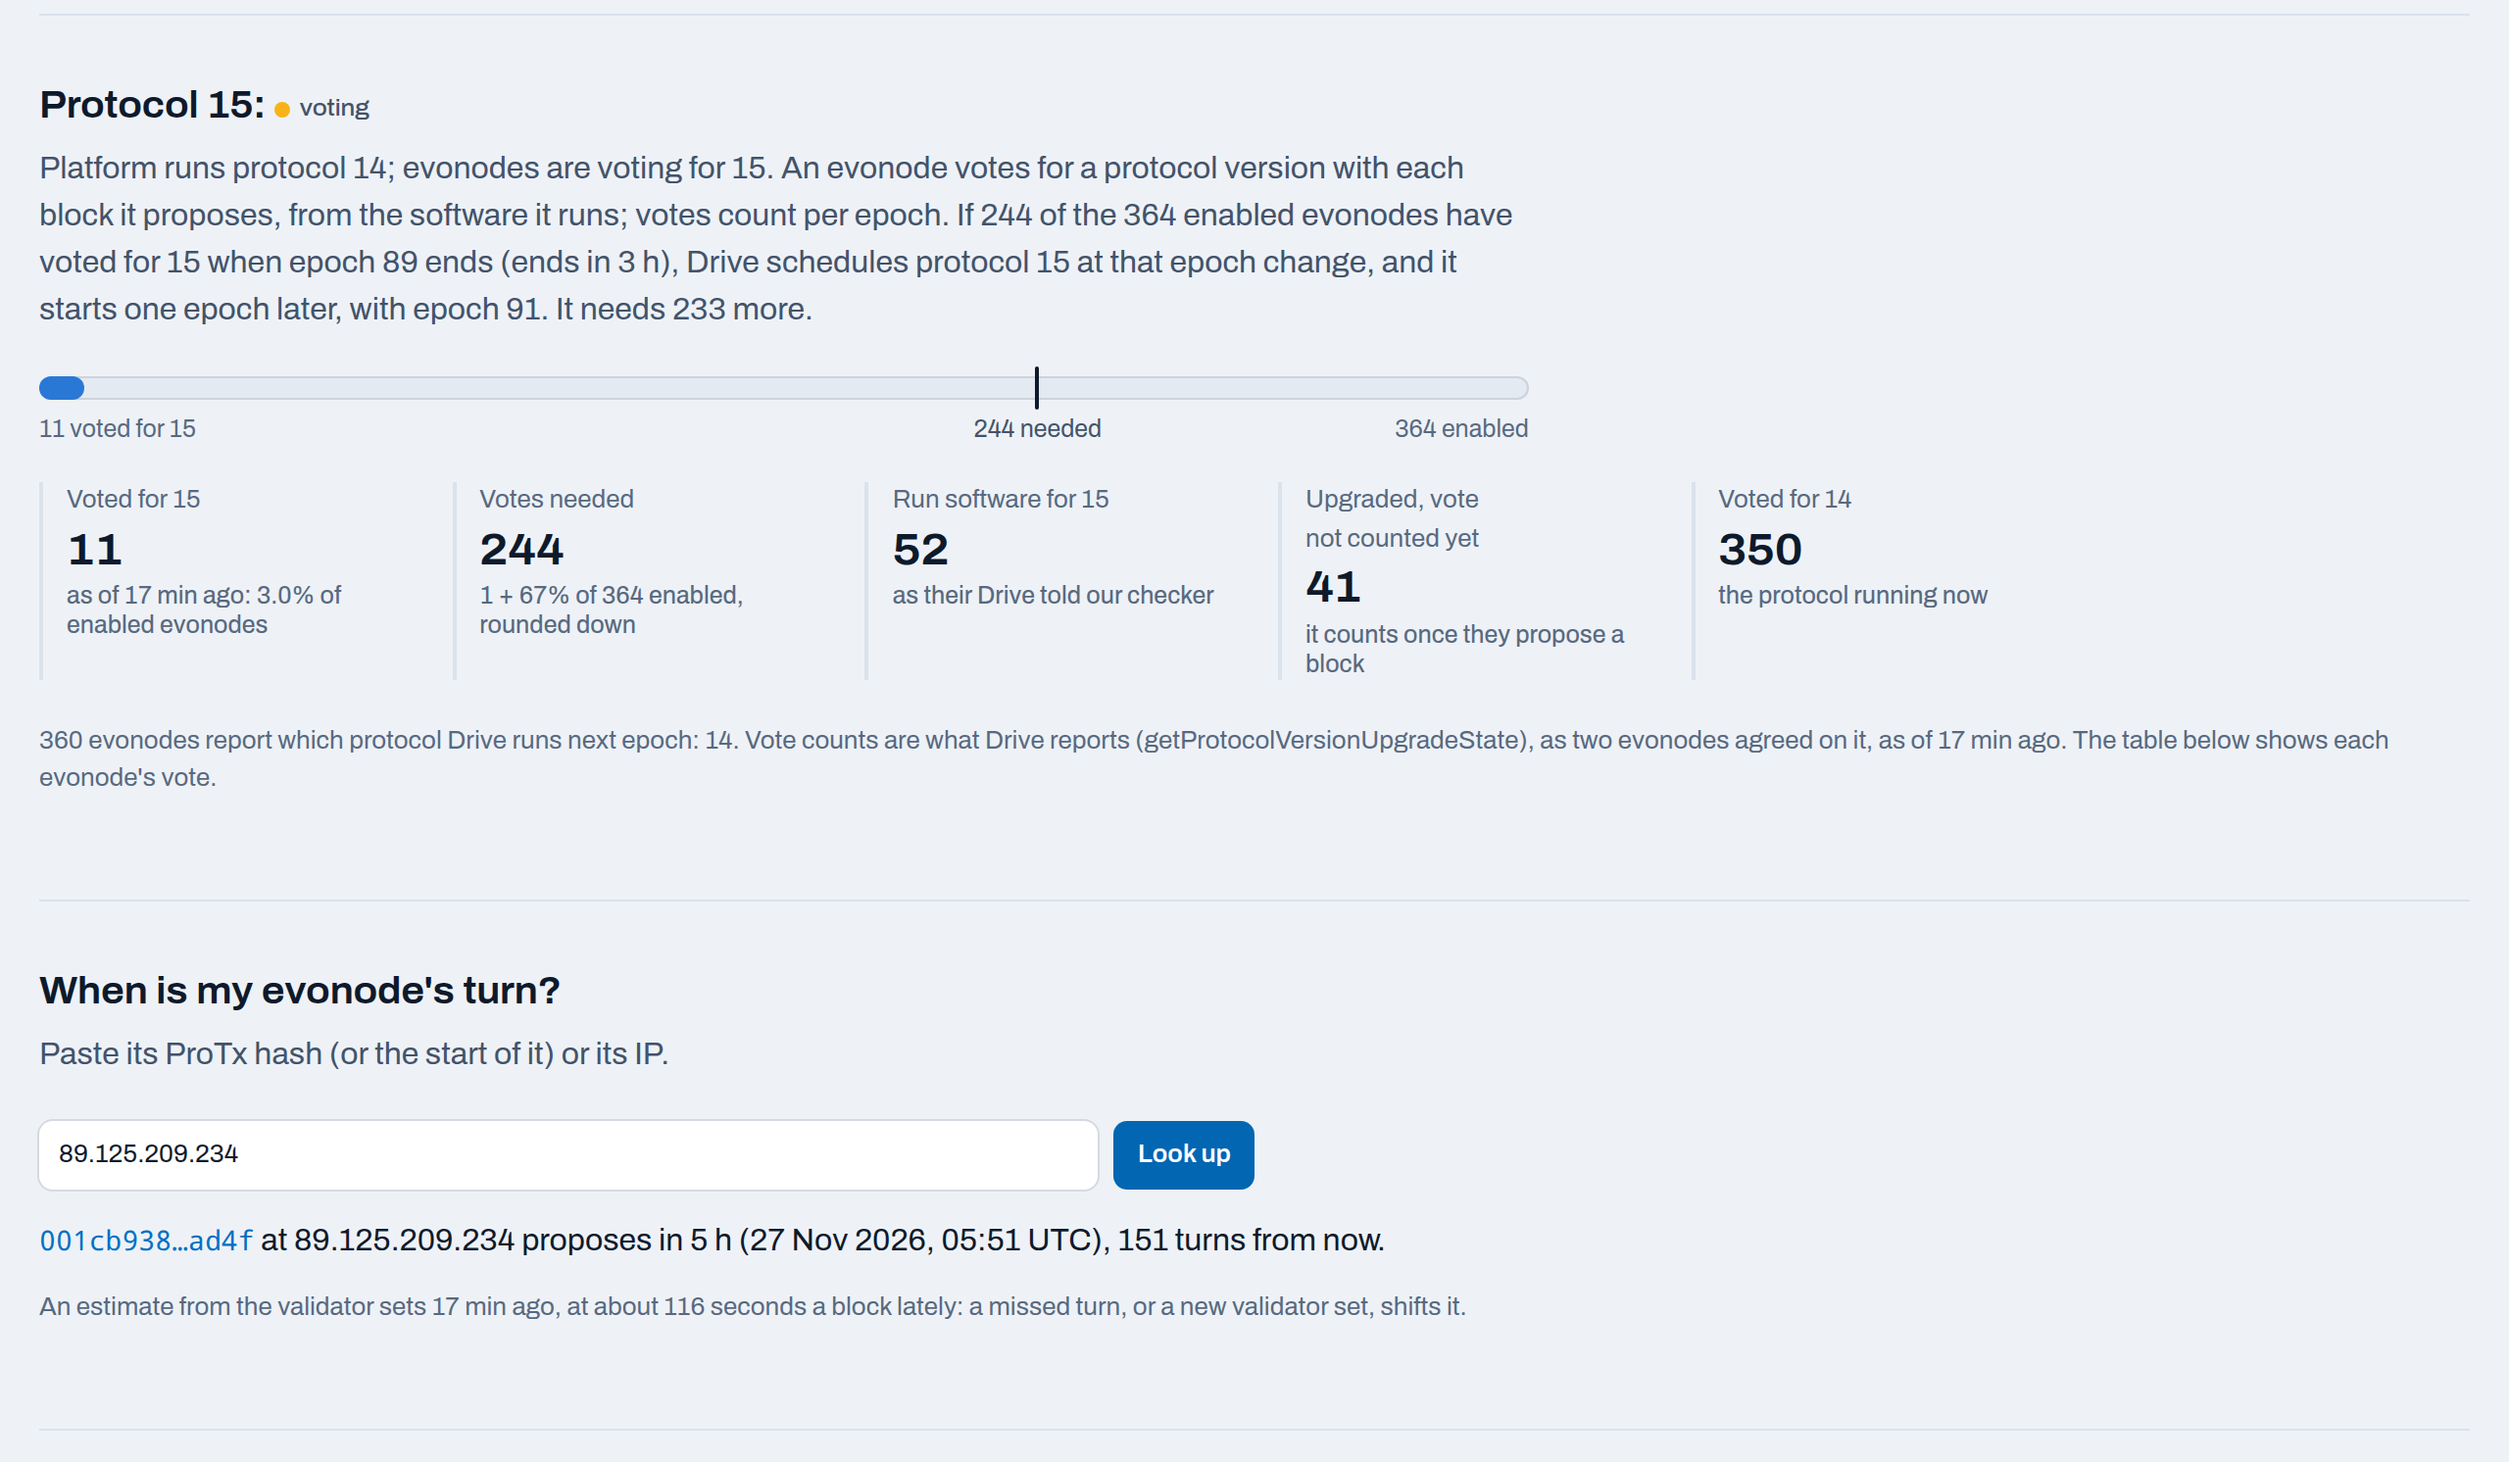
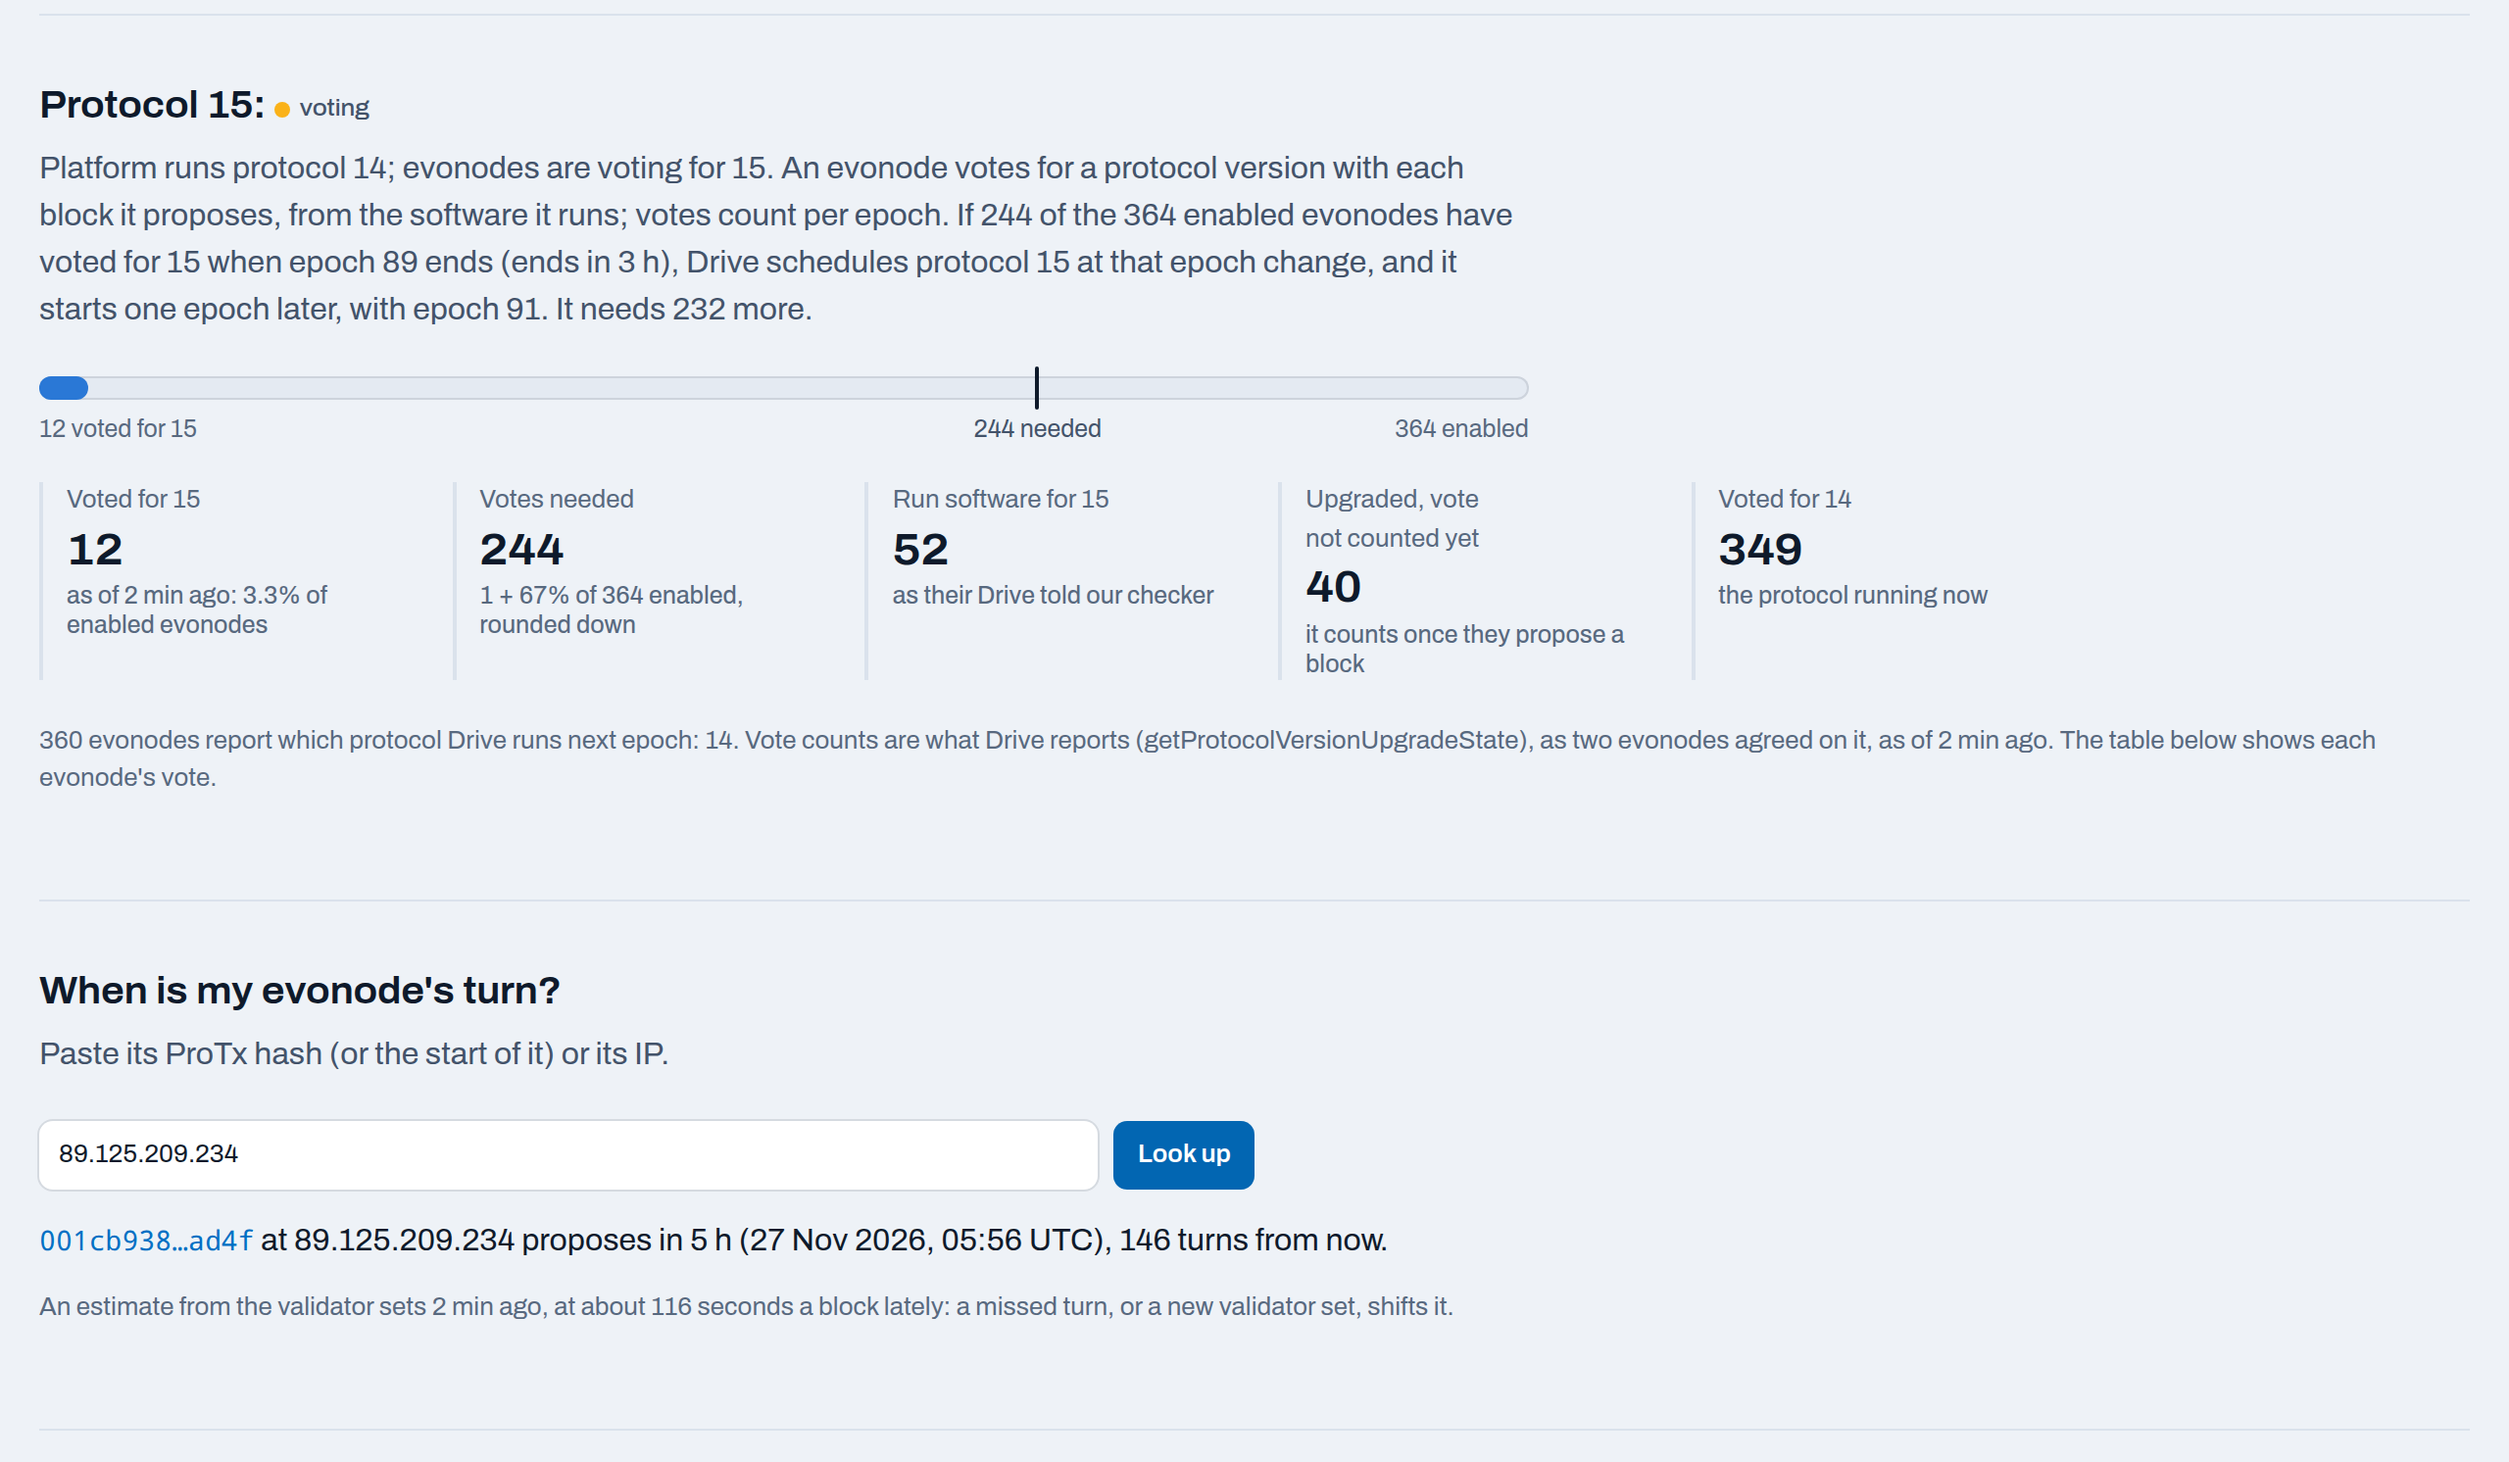
chore(dash-nodes): /platform turn lookup screenshots at 0af0bfb

diff --git a/dash-nodes/platform-turn-lookup/README.md b/dash-nodes/platform-turn-lookup/README.md
@@ -1,5 +1,9 @@
 # dash-nodes: /platform turn lookup and vote age
 
-- After: `web/` from branch `feat/platform-turn-lookup` at `10bfb7ec1e2718d412ddbed685ae189dc38e3f79`. Before: `web/` from base `df4a1d7` (origin/main).
-- Data: live https://radar.dashhq.org/api/v1/mainnet/platform, 27 Nov 2026 about 01:15 UTC, proxied to a local static server. The live crawler predates the PR, so it has no `upgrade.updated` yet, and the "as of" age falls back to `now.updated`.
+- After: `web/` from branch `feat/platform-turn-lookup` at `0af0bfb366a531d3ee18a38a8ff81e72adc08ce3`. Before: `web/` from base `df4a1d7` (origin/main).
+- Data: live https://radar.dashhq.org/api/v1/mainnet/platform, 27 Nov 2026 about 01:20 UTC, proxied to a local static server.
+- Clock: the browser clock is pinned to the live schedule's `ts` + 120 s (Playwright `clock.install`).
+  - Production still publishes `platform.json` every 15 minutes. That is older than the lookup's 15-minute staleness guard, so at real time the lookup would say "no estimate right now".
+  - After this PR, the document is published every 2 minutes, so a page sees a sample a few minutes old. The pinned clock shows that case.
+  - The live crawler predates the PR, so the "as of" age falls back to `now.updated`.
 - Headless Chrome via Playwright. Desktop 1280x900, phone 390x844 (isMobile), at 2x, in light and dark. Clipped from the Protocol upgrade section through the lookup. The lookup holds `89.125.209.234`, submitted.
